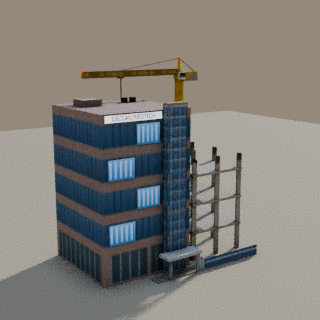
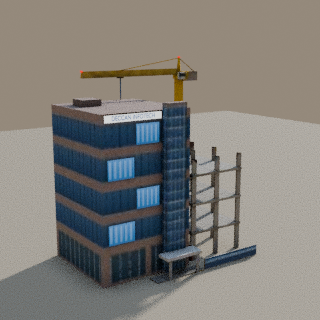
Landmarks (Blender): parked modern set — OU Arts College, Spanish Mosque, Begumpet terminal, ATC tower, parked turboprop, HITEC office + crane (gated, not packed)
Claude-Session: https://claude.ai/code/session_01619dqqNeTEBSYCYAx3TzBc

diff --git a/nostalgia/tools/blender/_lm_modern.py b/nostalgia/tools/blender/_lm_modern.py
@@ -795,7 +795,7 @@ def build_atc_tower(A):
     for i in range(8):
         cv.rect(i / 8.0, 0, i / 8.0 + 0.012, 1, '#b8bcbc')
         cv.rect(i / 8.0 + 0.0625, 0, i / 8.0 + 0.0665, 1, '#9aa0a2')
-        cv.rect(i / 8.0 + 0.02, 0.05, i / 8.0 + 0.11, 0.42, '#e9d7a8', 0.3)
+        cv.rect(i / 8.0 + 0.016, 0.06, i / 8.0 + 0.118, 0.5, '#ffe2a8', 0.55)
     cv.rect(0, 0.0, 1, 0.06, '#b8bcbc').rect(0, 0.94, 1, 1, '#b8bcbc')
     uv_cab = sh.put(cv)
     uv_red = sh.put(CT.Canvas(16, 16, '#ff2a1a'))
@@ -1319,9 +1319,6 @@ def build_hitec_office(A):
     # roof plant: water tanks + lift room
     P.append(BX('liftroom', -30.0, -22.0, 6.0, 14.0, ZT, ZT + 6.0, CLAD))
     lo.append(SH('s_lift', -30.1, -21.9, 5.9, 14.1, ZT, ZT + 6.1))
-    for x in (-8.0, -4.0):
-        P.append(cylinder('tank', 1.4, 2.6, (x, 12.0, ZT + 2.8), seg=10, mat=mp('#1e1e1e', 'hx_tank', rough=0.7)))
-        lo.append(lathe('s_tank', [(1.5, ZT + 2.8), (1.5, ZT + 5.5), (0.0, ZT + 5.6)], seg=5, loc=(x, 12.0, 0), close_bottom=False))
     # ---- the construction site next door
     CON = kit.material('whitewash', 'hx_concrete', base='#b4afa5', rough=0.9, var=0.12, grain=0.1, grime=0.6, streaks=0.5, dirt='#5f594f')
     BRK = kit.material('red_oxide', 'hx_brick', base='#a0523a', rough=0.85, var=0.14, grain=0.14, scale=1.2)
@@ -1343,8 +1340,6 @@ def build_hitec_office(A):
     P.append(BX('brick_w2', SX0, SX0 + 0.6, SY0, SY1, 0.0, 6.0, BRK))
     lo.append(SH('s_brick', SX0 - 0.1, 20.1, SY1 - 0.7, SY1 + 0.1, 0, FL - 0.75))
     lo.append(SH('s_brick2', SX0 - 0.1, SX0 + 0.7, SY0, SY1, 0, 6.1))
-    P.append(cylinder('sand', 4.0, 2.4, (26.0, -20.5, 0), seg=10, mat=kit.material('sandstone', 'hx_sand', base='#c8a878', rough=0.9), r2=0.6))
-    lo.append(lathe('s_sand', [(4.1, 0), (0.6, 2.5), (0.0, 2.5)], seg=6, loc=(26.0, -20.5, 0), close_bottom=False))
     for k in range(6):                 # the blue tin hoarding along the front
         x = 6.0 + k * 4.6
         P.append(BX('tin', x, x + 4.5, -24.6, -24.4, 0, 4.2, TIN))
@@ -1353,10 +1348,9 @@ def build_hitec_office(A):
     YEL = mp('#e8b81c', 'hx_crane', rough=0.6, grime=0.3)
     CWT = mp('#9c968c', 'hx_cweight', grime=0.5)
     MX, MY, MZ = 27.0, 21.5, 72.0
-    P.append(BX('crane_base', MX - 2.4, MX + 2.4, MY - 2.4, MY + 2.4, 0, 1.2, CON))
+    P.append(BX('crane_base', MX - 1.4, MX + 1.4, MY - 1.4, MY + 1.4, 0, 1.2, CON))
     P.append(_lattice('mast', MX - 1.2, MX + 1.2, MY - 1.2, MY + 1.2, 1.2, MZ, YEL))
-    lo.append(SH('s_mast', MX - 2.5, MX + 2.5, MY - 2.5, MY + 2.5, 0, 1.3))
-    lo.append(SH('s_mast2', MX - 1.45, MX + 1.45, MY - 1.45, MY + 1.45, 1.2, MZ))
+    lo.append(SH('s_mast2', MX - 1.45, MX + 1.45, MY - 1.45, MY + 1.45, 0.0, MZ))
     P.append(BX('slew', MX - 1.8, MX + 1.8, MY - 1.8, MY + 1.8, MZ, MZ + 1.6, YEL))
     P.append(BX('cab', MX - 1.6, MX + 0.6, MY - 3.8, MY - 1.8, MZ - 0.6, MZ + 2.2, mp('#e9e9e4', 'hx_cab')))
     P.append(BX('cab_win', MX - 1.65, MX + 0.65, MY - 3.85, MY - 3.0, MZ + 0.4, MZ + 2.0, mp('#2f4656', 'hx_cabwin')))
@@ -1384,11 +1378,11 @@ def build_hitec_office(A):
     sh = sheet(A.id, 512, 128)
     uv_n = sh.put(CT.text_cv('DECCAN INFOTECH', 448, 40, '#1d3f8a', '#eef2f4', size=0.8))
     lw = CT.Canvas(256, 16, GLS)
-    lw.grad(0.0, 1.0, '#2a5a8c', '#5a88b8')
+    lw.grad(0.0, 1.0, '#2c5f93', '#4f80b4')
     for k in range(12):
         lw.rect(k / 12 + 0.006, 0, k / 12 + 0.012, 1, MUL)
     for k in range(5):
-        lw.rect(0.05 + k * 0.19, 0.15, 0.13 + k * 0.19, 0.85, '#e9f0f6', 0.35)
+        lw.rect(0.05 + k * 0.19, 0.15, 0.13 + k * 0.19, 0.85, '#e9f0f6', 0.2)
     uv_w = sh.put(lw)
     uv_r = sh.put(CT.Canvas(8, 8, '#ff2a1a'))
     sh.quad(uv_n, 24.0, 2.6, (-22.0, Y0 - 0.45, ZT + 1.7))
@@ -1397,7 +1391,7 @@ def build_hitec_office(A):
     sheet_box(sh, uv_r, -22.6, -21.8, MY - 0.4, MY + 0.4, JZ + 2.0, JZ + 2.7)
     sheet_box(sh, uv_r, MX - 0.4, MX + 0.4, MY - 0.4, MY + 0.4, JZ + 7.0, JZ + 7.7)
     tally(A.id + ' lo', lo)
-    finish_m(A, P, lo, keep=[sh.obj()], size=320, ao=6.0)
+    finish_m(A, P, lo, keep=[sh.obj()], size=288, ao=6.0)
     L.shots(A, az=-35, el=12, extra=[{'name': 'front', 'view': {'az': 0, 'el': 5, 'fov': 32, 'pad': 1.05}}])
 
 
@@ -1410,7 +1404,7 @@ def STL_():
 # NOSTALGIA_PARKED=1, never packed into the real pack. cyber_towers (above) is shipped.
 if os.environ.get('NOSTALGIA_PARKED') == '1':
     kit.asset('spanish_mosque', 'landmark', draw='spanish_mosque', face='s', footprint=[40, 40], height=66.0, fit='footprint', floodlit=True)(build_spanish_mosque)
-    kit.asset('atc_tower', 'landmark', draw='control_tower', footprint=[18, 18], height=78.0, fit='footprint', floodlit=True)(build_atc_tower)
+    kit.asset('atc_tower', 'landmark', draw='control_tower', footprint=[18, 18], height=78.0, fit='footprint')(build_atc_tower)
     kit.asset('parked_plane', 'landmark', draw='aeroplane', face='e', footprint=[40, 46], height=21.0, fit='footprint')(build_parked_plane)
     kit.asset('begumpet_airport', 'landmark', draw='airport_terminal', face='s', footprint=[120, 36], height=33.0, fit='footprint')(build_begumpet_airport)
     kit.asset('osmania_arts_college', 'landmark', draw='ou_arts_college', face='s', footprint=[200, 70], height=66.0, fit='footprint', floodlit=True)(build_ou_arts_college)
